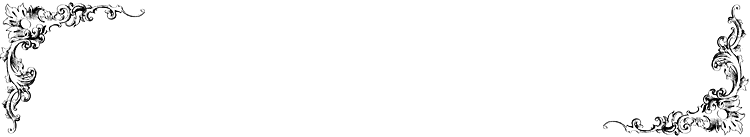
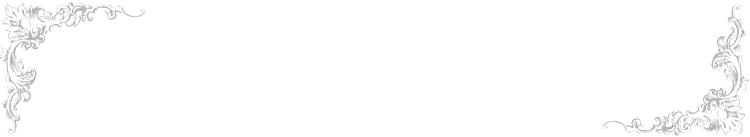
Make the header dimmer

Changed region(s): [[0.7973, 0.0584, 1.0, 0.9927], [0.0, 0.0, 0.2147, 0.9635], [0.9813, 0.0292, 1.0, 0.0584]]

diff --git a/css/style.css b/css/style.css
@@ -24,7 +24,7 @@ body {
          }
 
 #hd h1 a { 
-           color: black;
+           color: #999;
            text-decoration: none;
            padding-top: 40px;
            display:block;
